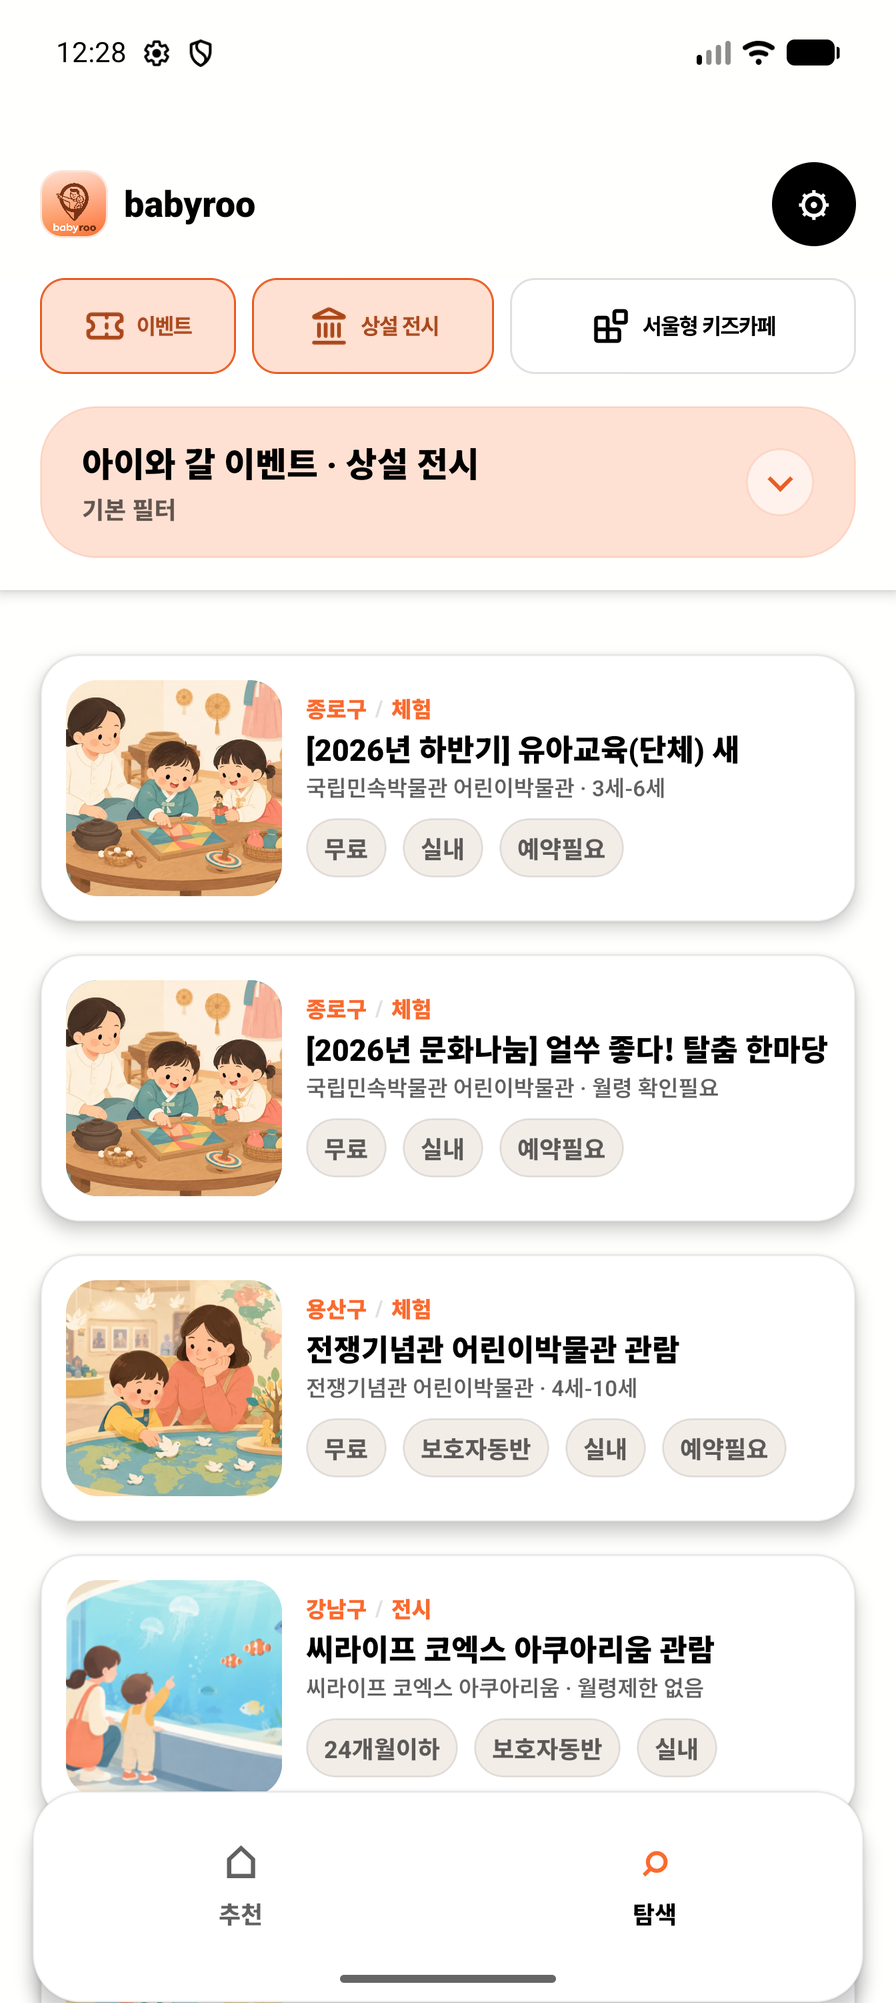
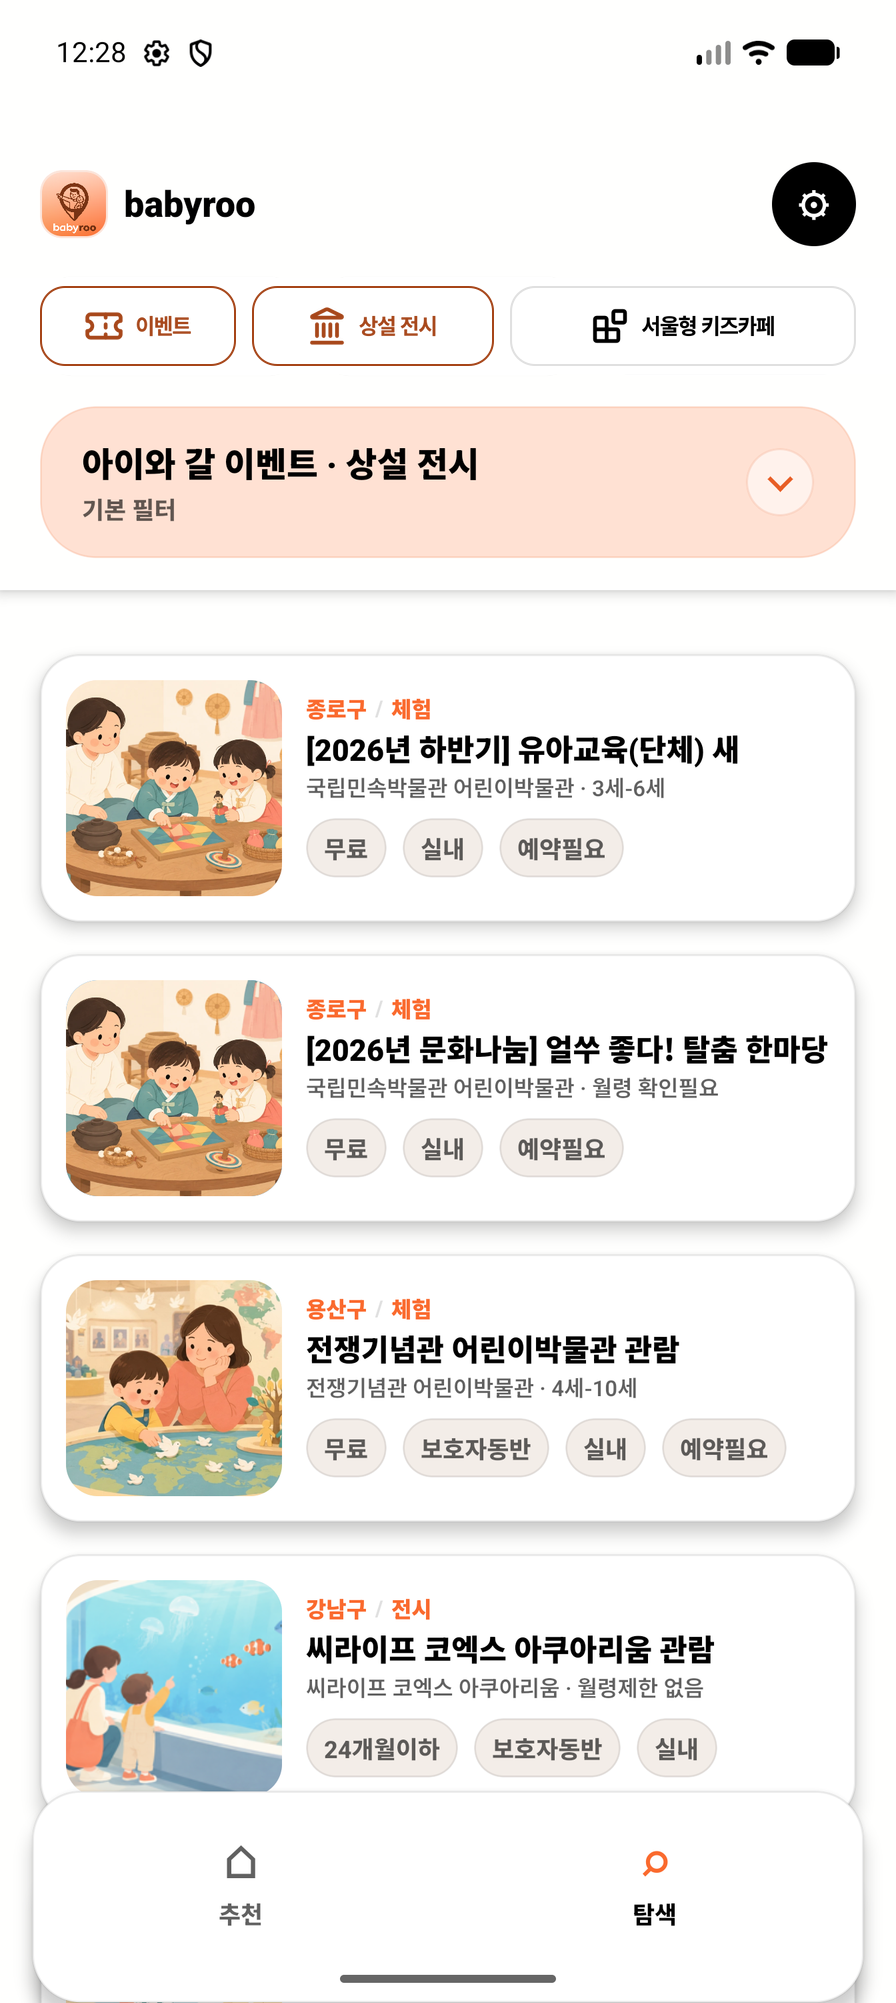
Refine Explore badges with compact orange outlines

Changed region(s): [[0.0312, 0.1238, 0.5625, 0.1857], [0.7188, 0.1548, 0.875, 0.1857], [0.6562, 0.1548, 0.6875, 0.1857]]

diff --git a/app/App.tsx b/app/App.tsx
@@ -3211,35 +3211,41 @@ function ExploreScreen({
                       flexBasis:
                         eventTypeAvailableWidth * option.widthWeight / 3.4,
                     },
-                    stackEventTypeContent && styles.eventTypeOptionStacked,
-                    selected && styles.eventTypeOptionSelected,
                   ]}
                   onPress={() => onToggleEventType(option.value)}
                   accessibilityRole="button"
                   accessibilityLabel={`Toggle explore event type ${option.label}`}
                   accessibilityState={{ selected }}
                 >
-                  <Image
-                    source={option.icon}
+                  <View
                     style={[
-                      styles.eventTypeIcon,
-                      width >= 390 && styles.eventTypeIconLarge,
-                      selected && styles.eventTypeIconSelected,
+                      styles.eventTypeOptionContent,
+                      stackEventTypeContent && styles.eventTypeOptionStacked,
+                      selected && styles.eventTypeOptionSelected,
                     ]}
-                    accessible={false}
-                    importantForAccessibility="no"
-                  />
-                  <Text
-                    style={[
-                      styles.eventTypeLabel,
-                      selected && styles.eventTypeLabelSelected,
-                    ]}
-                    numberOfLines={fontScale > 1 ? undefined : 2}
-                    lineBreakStrategyIOS="hangul-word"
-                    textBreakStrategy="highQuality"
                   >
-                    {option.label}
-                  </Text>
+                    <Image
+                      source={option.icon}
+                      style={[
+                        styles.eventTypeIcon,
+                        width >= 390 && styles.eventTypeIconLarge,
+                        selected && styles.eventTypeIconSelected,
+                      ]}
+                      accessible={false}
+                      importantForAccessibility="no"
+                    />
+                    <Text
+                      style={[
+                        styles.eventTypeLabel,
+                        selected && styles.eventTypeLabelSelected,
+                      ]}
+                      numberOfLines={fontScale > 1 ? undefined : 2}
+                      lineBreakStrategyIOS="hangul-word"
+                      textBreakStrategy="highQuality"
+                    >
+                      {option.label}
+                    </Text>
+                  </View>
                 </Pressable>
               );
             })}
@@ -7128,22 +7134,27 @@ const styles = StyleSheet.create({
     marginTop: 0,
   },
   eventTypeOption: {
+    minHeight: layout.touchTarget,
+    minWidth: 0,
+    paddingVertical: spacing.xs,
+  },
+  eventTypeOptionContent: {
     alignItems: 'center',
     backgroundColor: colors.surface,
     borderColor: colors.border,
     borderRadius: radius.md,
     borderWidth: 1,
+    flexGrow: 1,
     flexDirection: 'row',
     gap: 6,
-    minHeight: layout.touchTarget,
+    minHeight: 40,
     justifyContent: 'center',
     minWidth: 0,
     paddingHorizontal: spacing.sm,
-    paddingVertical: spacing.sm,
+    paddingVertical: 6,
   },
   eventTypeOptionSelected: {
-    backgroundColor: colors.primarySoft,
-    borderColor: colors.primaryStrong,
+    borderColor: colors.coralText,
   },
   eventTypeOptionStacked: {
     flexDirection: 'column',

diff --git a/docs/plans/app-explore-badge-redesign.md b/docs/plans/app-explore-badge-redesign.md
@@ -2,6 +2,30 @@
 
 ## Status and agreed direction
 
+The latest approved revision is the orange-outline sample, chosen by the user
+after comparing two rendered alternatives. It supersedes the peach selected
+background described in the initial design below.
+
+### Orange-outline refinement
+
+- Selected badge background is `#FFFFFF`. Border, icon, and label are `#A74619`.
+- Unselected background is `#FFFFFF`, border is `rgba(0, 0, 0, 0.12)`, and icon
+  and label are `#000000`.
+- At standard text size and widths 360 or greater, the visible badge height is
+  40 logical units. The outer Pressable retains a 48-unit minimum touch height,
+  with 4 units of transparent vertical padding above and below the visible badge.
+- The inner badge has 6-unit vertical padding, 8-unit horizontal padding,
+  a 1-unit border, and a 12-unit corner radius. Labels stay at 12/16 with weight
+  700. Icon sizes remain 16 below width 390 and 20 at width 390 and above.
+- Inner badges stretch equally and grow with wrapped or enlarged text. The
+  existing stacked layout applies below width 360 or font scale above 1.0.
+- The full-screen composite is updated to show this revision. It uses the saved
+  surrounding screen and substitute-font labels. Device rendering remains pending.
+- TypeScript, repository ESLint, and Git whitespace checks passed. Reviewed the
+  updated full-screen composite for badge height, readable labels, icon alignment,
+  and separation from the peach filter panel. Content uses automatic flex basis
+  so enlarged text can increase badge and header height.
+
 Approved by the user with “Proceed with implementation”. Implementation and
 preview review completed. Running-app visual verification remains pending.
 
